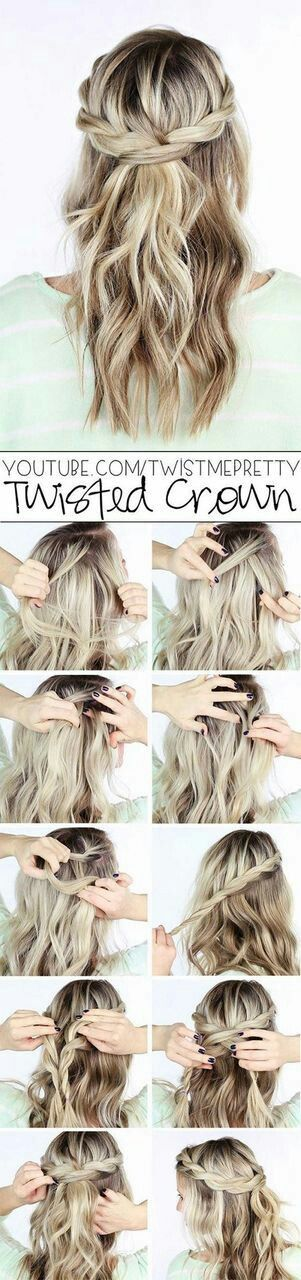
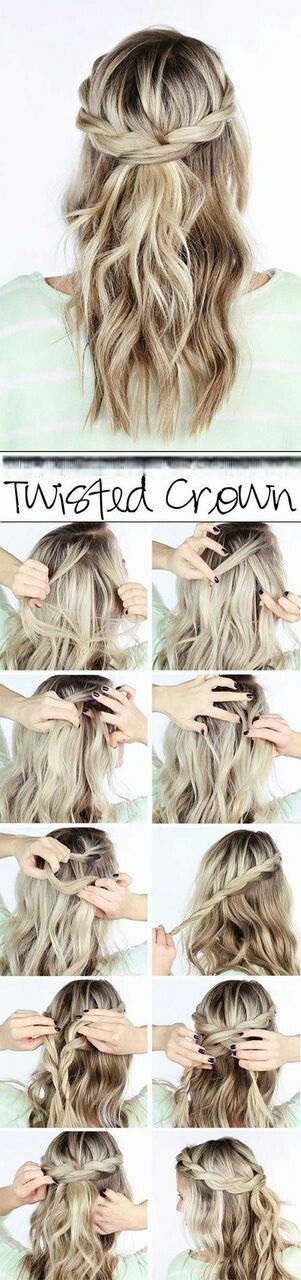
Add files via upload

Changed region(s): [[0.0, 0.3438, 1.0, 0.375]]

diff --git a/cloud-images/CloudImage.html b/cloud-images/CloudImage.html
@@ -519,39 +519,58 @@ document.addEventListener("DOMContentLoaded", function() {
 })();
 </script>
 
-
 <script>
 document.addEventListener("DOMContentLoaded", function () {
 
+  const CACHE_NAME = "hair-cache-v1";
   const images = document.querySelectorAll("img[data-src]");
 
-  const lazyLoad = (img) => {
-    img.src = img.dataset.src;
-    img.onload = () => {
+  async function loadImage(img) {
+    const url = img.dataset.src;
+
+    try {
+      const cache = await caches.open(CACHE_NAME);
+      const cachedResponse = await cache.match(url);
+
+      if (cachedResponse) {
+        const blob = await cachedResponse.blob();
+        img.src = URL.createObjectURL(blob);
+        img.classList.add("loaded");
+        return;
+      }
+
+      // Not cached → fetch & store
+      const response = await fetch(url);
+      await cache.put(url, response.clone());
+
+      const blob = await response.blob();
+      img.src = URL.createObjectURL(blob);
       img.classList.add("loaded");
-    };
-  };
+
+    } catch (err) {
+      // fallback (important for file:// or errors)
+      img.src = url;
+      img.onload = () => img.classList.add("loaded");
+    }
+  }
 
   if ("IntersectionObserver" in window) {
     const observer = new IntersectionObserver((entries, obs) => {
       entries.forEach(entry => {
         if (entry.isIntersecting) {
-          lazyLoad(entry.target);
+          loadImage(entry.target);
           obs.unobserve(entry.target);
         }
       });
     });
 
     images.forEach(img => observer.observe(img));
-
   } else {
-    // Fallback (older WebView)
-    images.forEach(img => lazyLoad(img));
+    images.forEach(img => loadImage(img));
   }
 
 });
 </script>
-
 </body>
 </html>
 
